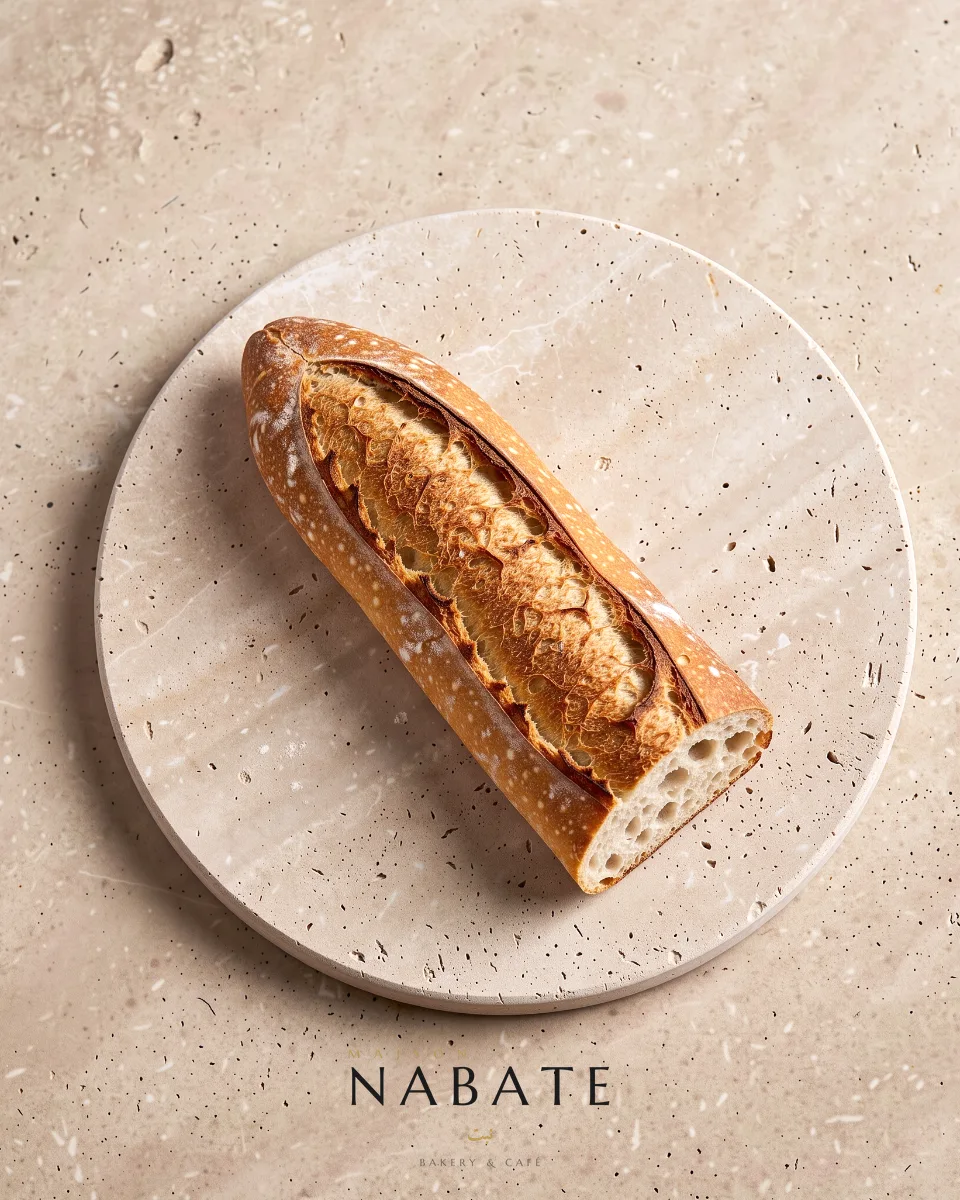
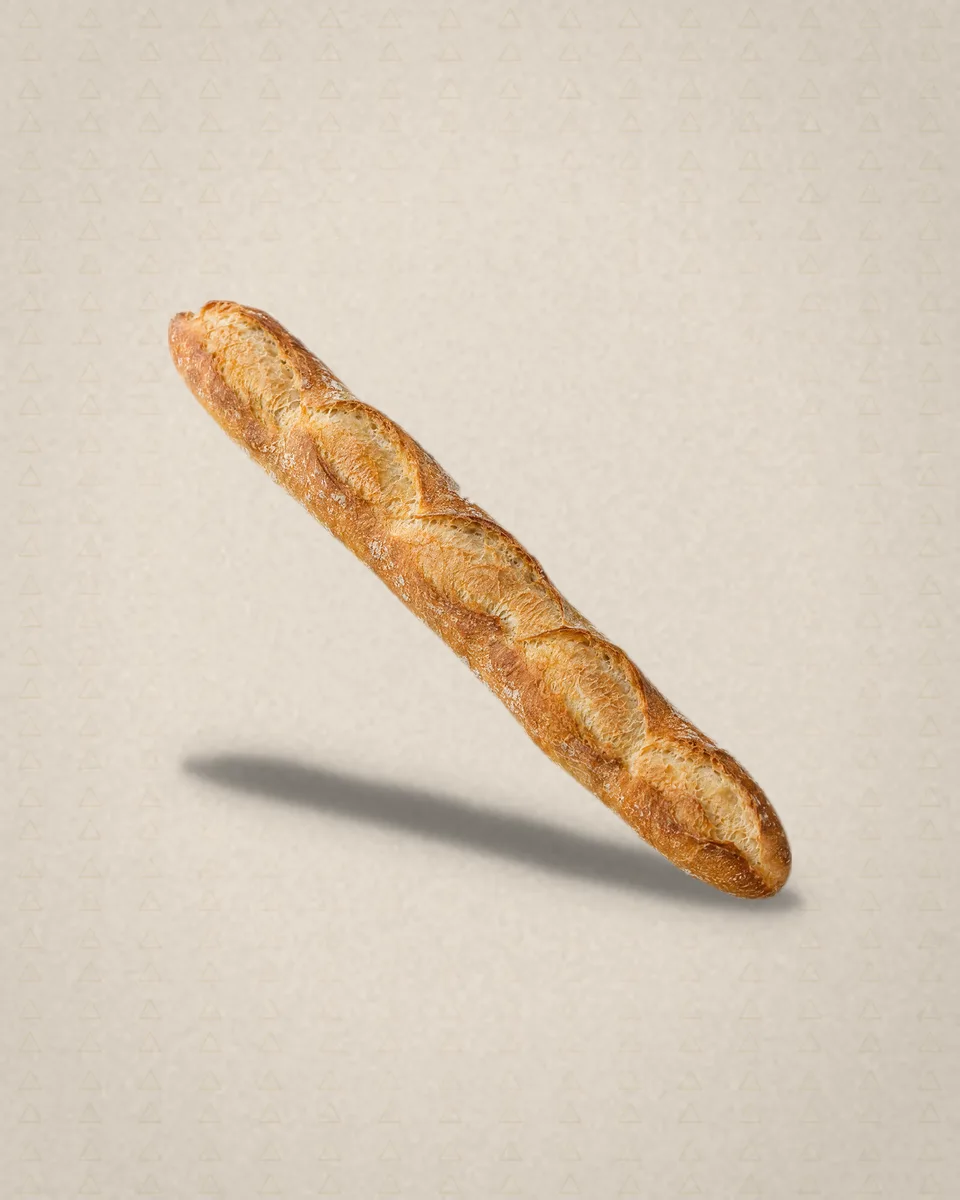
Menu: 28 packshots sur fond NABATE unique (GPT Image 2.5 + détourage + composition)
Claude-Session: https://claude.ai/code/session_012wrmCncag9qACLpNdERozf

diff --git a/PLACEHOLDERS.md b/PLACEHOLDERS.md
@@ -26,3 +26,9 @@
 ## Menu principal (photos studio)
 - 28 photos générées (FLUX) au gabarit unique : vue du dessus, même assiette travertin, cadrage et teinte normalisés par script, logo Maison NABATE incrusté en bas. Dans assets/img/menu/.
 - Sans porc, sans prix. Café et boissons restent en listes.
+
+
+## Menu principal — photos (méthode v5)
+- 28 packshots IA (GPT Image 2.5) détourés puis posés sur UN fond NABATE identique (pierre + trame triangles du site), ombre de contact synthétique, même cadrage 4:5.
+- Produits inventés par IA : à remplacer par les vrais produits (photo téléphone sur carton gris neutre, lumière fenêtre, même cadrage) -> même pipeline de détourage/fond.
+- Logo : en HTML/CSS (en-tête), pas dans les photos.
